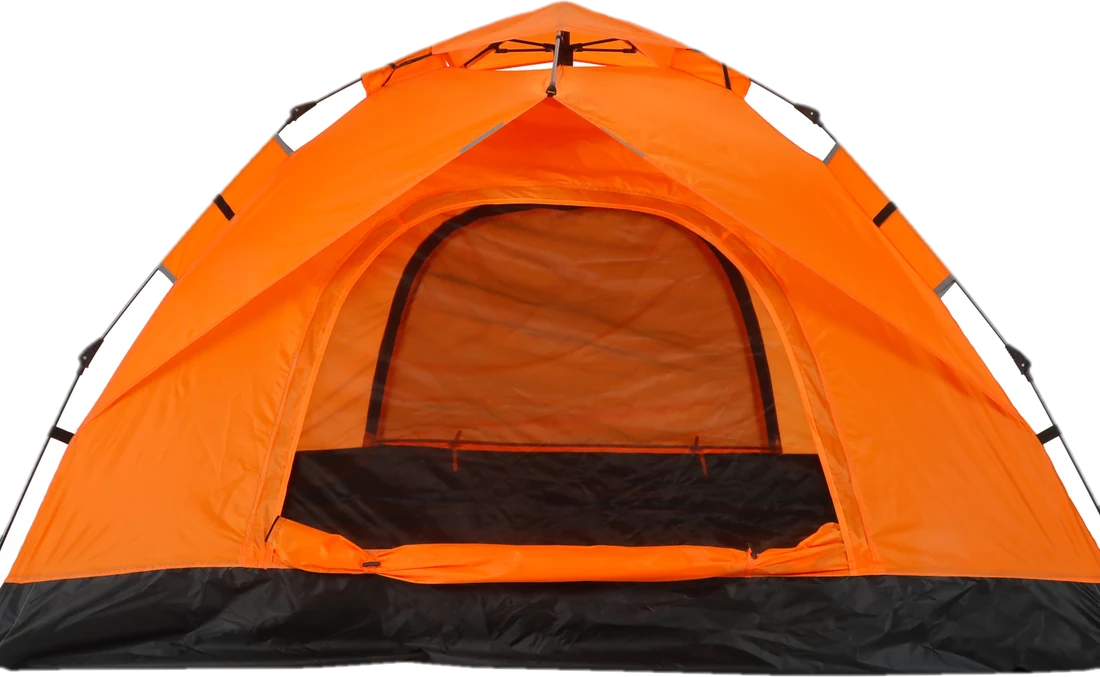
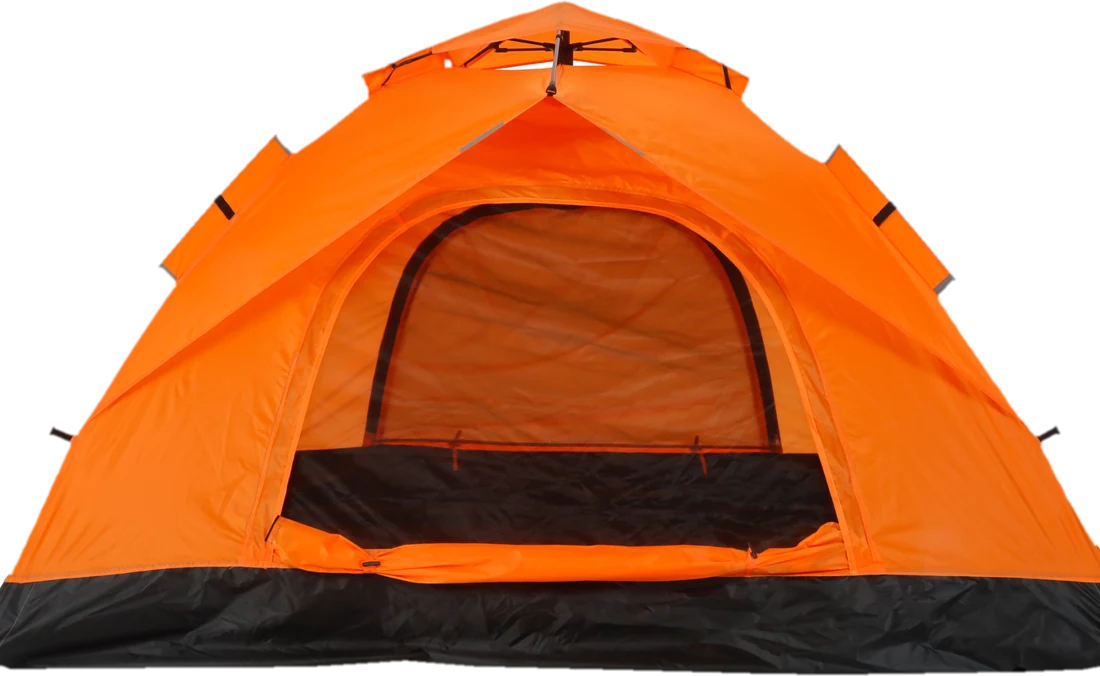
Sun rays and glints toward +50 in both demos; v2 summer scene

diff --git a/v2/index.html b/v2/index.html
@@ -85,6 +85,9 @@ nav a:hover{background:#e8eae7;color:var(--ink)}
 .summer .ph-frame .sumbg,.summer .ph-frame .grass{opacity:1}
 .summer .ph-frame img.win{opacity:0}
 .summer .ph-frame img.sum{opacity:1;transform:translateX(-50%)}
+.ph-frame img.sum.scene{inset:0;left:0;bottom:0;width:100%;height:100%;object-fit:cover;object-position:50% 50%;transform:scale(1.04);filter:none}
+.summer .ph-frame img.sum.scene{transform:none}
+.ph-frame .sumbg,.ph-frame .grass{display:none}
 @keyframes spin{to{transform:translateX(-50%) rotate(360deg)}}
 .ph-frame canvas{position:absolute;inset:0;width:100%;height:100%;pointer-events:none}
 .badge{position:absolute;left:18px;top:18px;background:#fff;border-radius:12px;padding:10px 14px;font-size:14px;line-height:1.35;box-shadow:0 8px 24px -12px rgba(0,0,0,.35)}
@@ -354,7 +357,7 @@ footer .bot{margin-top:46px;padding-top:20px;border-top:1px solid var(--line);di
     <div class="ph-frame rv" id="frame">
       <div class="sumbg"></div><div class="grass"></div>
       <img class="main win" src="img/hero-1400.webp" srcset="img/hero-1000.webp 1000w, img/hero-1400.webp 1400w" sizes="(max-width:1100px) 100vw, 640px" alt="Палатка Куб EX-PRO Зима 4 на снегу" fetchpriority="high">
-      <img class="main sum" src="img/offsite.webp" alt="Автоматическая палатка EX-PRO off-site" loading="lazy">
+      <img class="main sum scene" src="img/summer-scene.webp" alt="Автоматическая палатка EX-PRO off-site на горной поляне" loading="lazy">
       <canvas id="snow"></canvas>
       <div class="badge"><b id="bN">Куб EX-PRO Зима 4</b><span id="bD">до 8 человек</span> · <span class="pr" id="bP">78 000 ₽</span></div>
       <div class="thermo"><div class="r"><span>Температура за бортом</span><b id="tV">−32°</b></div><input type="range" id="tR" min="-40" max="50" value="-32" aria-label="Температура"><div class="r" style="font-size:12px"><span>−40°</span><span id="tH">EX-PRO держит от −40° до +50°</span><span>+50°</span></div></div>
@@ -549,8 +552,17 @@ rs();addEventListener('resize',rs);
 for(let i=0;i<90;i++)fl.push({x:Math.random(),y:Math.random(),r:Math.random()*1.8+.7,s:Math.random()*.5+.35,w:Math.random()*6.3});
 new IntersectionObserver(e=>vis=e[0].isIntersecting).observe(frame);
 (function loop(){if(vis&&!RM){cx.clearRect(0,0,W,H);if(temp<=5){const k=Math.min(1,(-temp+8)/48),n=Math.floor(fl.length*k);cx.fillStyle='rgba(255,255,255,.9)';
-  for(let i=0;i<n;i++){const f=fl[i];f.y+=f.s*(.0014+k*.0026);f.w+=.02;f.x+=Math.sin(f.w)*.0005+k*.0008;if(f.y>1.02){f.y=-.02;f.x=Math.random()}if(f.x>1.02)f.x=-.02;cx.beginPath();cx.arc(f.x*W,f.y*H,f.r,0,7);cx.fill()}}}
+  for(let i=0;i<n;i++){const f=fl[i];f.y+=f.s*(.0014+k*.0026);f.w+=.02;f.x+=Math.sin(f.w)*.0005+k*.0008;if(f.y>1.02){f.y=-.02;f.x=Math.random()}if(f.x>1.02)f.x=-.02;cx.beginPath();cx.arc(f.x*W,f.y*H,f.r,0,7);cx.fill()}}else sun(cx,W,H,temp)}
   requestAnimationFrame(loop)})();
+/* sun rays + glints, grows toward +50 (mirror of snow toward −40) */
+const SUN={t:0,b:Array.from({length:26},()=>({x:Math.random(),y:Math.random(),r:Math.random()*14+4,s:Math.random()*.3+.1,p:Math.random()*6.3}))};
+function sun(c,W,H,t){const k=Math.min(1,Math.max(0,(t-5)/45));if(!k)return;SUN.t+=.004;const sx=W*.86,sy=H*.06;c.save();c.globalCompositeOperation='screen';
+ const g=c.createRadialGradient(sx,sy,0,sx,sy,Math.max(W,H)*.9);g.addColorStop(0,`rgba(255,240,200,${.55*k})`);g.addColorStop(.25,`rgba(255,200,120,${.22*k})`);g.addColorStop(1,'rgba(255,180,90,0)');c.fillStyle=g;c.fillRect(0,0,W,H);
+ const L=Math.hypot(W,H)*1.1,rg=c.createRadialGradient(sx,sy,0,sx,sy,L*.75);rg.addColorStop(0,`rgba(255,235,190,${.22*k})`);rg.addColorStop(1,'rgba(255,235,190,0)');c.fillStyle=rg;
+ for(let i=0;i<14;i++){const a=SUN.t*.6+i*Math.PI/7+Math.sin(SUN.t*2+i)*.05,sp=.035+.02*Math.sin(SUN.t*3+i*1.7);c.beginPath();c.moveTo(sx,sy);c.lineTo(sx+Math.cos(a-sp)*L,sy+Math.sin(a-sp)*L);c.lineTo(sx+Math.cos(a+sp)*L,sy+Math.sin(a+sp)*L);c.closePath();c.fill()}
+ const fx=W*.32,fy=H*.78;for(let i=0;i<5;i++){const q=(i+1)/6,r=(8+i*7)*(W/600);c.fillStyle=`rgba(255,${200+i*8},${150+i*15},${(.10+.05*Math.sin(SUN.t*4+i))*k})`;c.beginPath();c.arc(sx+(fx-sx)*q,sy+(fy-sy)*q,r,0,7);c.fill()}
+ for(const b of SUN.b){b.y-=b.s*.0015;b.p+=.03;b.x+=Math.sin(b.p)*.0005;if(b.y<-.05){b.y=1.05;b.x=Math.random()}const a=(.25+.35*Math.abs(Math.sin(b.p)))*k,r=b.r*(W/700),X=b.x*W,Y=b.y*H,gg=c.createRadialGradient(X,Y,0,X,Y,r);gg.addColorStop(0,`rgba(255,240,200,${a})`);gg.addColorStop(1,'rgba(255,220,150,0)');c.fillStyle=gg;c.beginPath();c.arc(X,Y,r,0,7);c.fill()}
+ c.restore()}
 const fmt=t=>(t>0?'+':t<0?'−':'')+Math.abs(t)+'°';let sum=false;
 $('#tR').addEventListener('input',e=>{temp=+e.target.value;$('#tV').textContent=fmt(temp);const s=temp>5;if(s===sum)return;sum=s;document.body.classList.toggle('summer',s);
   $('#bN').textContent=s?'Автоматическая off-site':'Куб EX-PRO Зима 4';$('#bD').textContent=s?'раскладывается сама':'до 8 человек';$('#bP').textContent=s?'6 500 ₽':'78 000 ₽';

diff --git a/index.html b/index.html
@@ -884,12 +884,22 @@ const heroR=$('#heroR'),cv=$('#snow'),cx=cv.getContext('2d');let flakes=[],temp=
 function rs(){const d=Math.min(2,devicePixelRatio||1);W=heroR.clientWidth;H=heroR.clientHeight;cv.width=W*d;cv.height=H*d;cx.setTransform(d,0,0,d,0,0)}
 rs();addEventListener('resize',rs);
 for(let i=0;i<260;i++)flakes.push({x:Math.random(),y:Math.random(),r:Math.random()*2.2+.6,s:Math.random()*.6+.25,w:Math.random()*Math.PI*2});
+/* sun rays + glints, grows toward +50 (mirror of snow toward −40) */
+const SUN={t:0,b:Array.from({length:26},()=>({x:Math.random(),y:Math.random(),r:Math.random()*14+4,s:Math.random()*.3+.1,p:Math.random()*6.3}))};
+function sun(c,W,H,t){const k=Math.min(1,Math.max(0,(t-5)/45));if(!k)return;SUN.t+=.004;const sx=W*.86,sy=H*.06;c.save();c.globalCompositeOperation='screen';
+ const g=c.createRadialGradient(sx,sy,0,sx,sy,Math.max(W,H)*.9);g.addColorStop(0,`rgba(255,240,200,${.55*k})`);g.addColorStop(.25,`rgba(255,200,120,${.22*k})`);g.addColorStop(1,'rgba(255,180,90,0)');c.fillStyle=g;c.fillRect(0,0,W,H);
+ const L=Math.hypot(W,H)*1.1,rg=c.createRadialGradient(sx,sy,0,sx,sy,L*.75);rg.addColorStop(0,`rgba(255,235,190,${.22*k})`);rg.addColorStop(1,'rgba(255,235,190,0)');c.fillStyle=rg;
+ for(let i=0;i<14;i++){const a=SUN.t*.6+i*Math.PI/7+Math.sin(SUN.t*2+i)*.05,sp=.035+.02*Math.sin(SUN.t*3+i*1.7);c.beginPath();c.moveTo(sx,sy);c.lineTo(sx+Math.cos(a-sp)*L,sy+Math.sin(a-sp)*L);c.lineTo(sx+Math.cos(a+sp)*L,sy+Math.sin(a+sp)*L);c.closePath();c.fill()}
+ const fx=W*.32,fy=H*.78;for(let i=0;i<5;i++){const q=(i+1)/6,r=(8+i*7)*(W/600);c.fillStyle=`rgba(255,${200+i*8},${150+i*15},${(.10+.05*Math.sin(SUN.t*4+i))*k})`;c.beginPath();c.arc(sx+(fx-sx)*q,sy+(fy-sy)*q,r,0,7);c.fill()}
+ for(const b of SUN.b){b.y-=b.s*.0015;b.p+=.03;b.x+=Math.sin(b.p)*.0005;if(b.y<-.05){b.y=1.05;b.x=Math.random()}const a=(.25+.35*Math.abs(Math.sin(b.p)))*k,r=b.r*(W/700),X=b.x*W,Y=b.y*H,gg=c.createRadialGradient(X,Y,0,X,Y,r);gg.addColorStop(0,`rgba(255,240,200,${a})`);gg.addColorStop(1,'rgba(255,220,150,0)');c.fillStyle=gg;c.beginPath();c.arc(X,Y,r,0,7);c.fill()}
+ c.restore()}
 function snow(){cx.clearRect(0,0,W,H);
   const k=temp<=0?Math.min(1,(-temp+4)/44):0, n=Math.floor(flakes.length*k), wind=k*1.6;
   cx.fillStyle='rgba(255,255,255,.9)';
   for(let i=0;i<n;i++){const f=flakes[i];f.y+=f.s*(.0016+k*.0028);f.w+=.02;f.x+=(Math.sin(f.w)*.0006)+wind*.0009;
     if(f.y>1.02){f.y=-.02;f.x=Math.random()}if(f.x>1.02)f.x=-.02;
     cx.beginPath();cx.arc(f.x*W,f.y*H,f.r*(.7+k*.5),0,7);cx.fill()}
+  if(temp>5)sun(cx,W,H,temp);
   if(!RM)requestAnimationFrame(snow)}
 snow();
 const tR=$('#tRange'),tV=$('#tVal'),hT=$('#hT'),tM=$('#tMdl'),fr=$('#frost');
